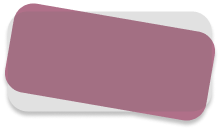
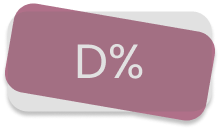
Completion Login

Changed region(s): [[0.3273, 0.3411, 0.6545, 0.6202]]

diff --git a/client/src/pages/Login.js b/client/src/pages/Login.js
@@ -1,5 +1,5 @@
 import React from 'react';
-import { Box } from '@mui/material';
+import { Box, Typography, Button, ThemeProvider, Stack } from '@mui/material';
 
 import LoginBanner from '../components/login/LoginBanner';
 import HorizontalBar from '../components/HorizontalBar';
@@ -7,6 +7,13 @@ import LoginNavbar from '../components/login/LoginNavbar';
 import '../assets/css/Login.css';
 import theme, { Colours } from '../assets/theme/theme';
 import Skeleton from '@mui/material/Skeleton';
+import Reveal from 'react-reveal/Reveal';
+import Zoom from '@mui/material/Zoom'; //Zoom text
+import Flip from 'react-reveal/Flip';
+import Slide from 'react-reveal/Slide';
+import { Paper} from '@mui/material';
+
+
 
 
 
@@ -14,10 +21,79 @@ import Skeleton from '@mui/material/Skeleton';
 function Login() {
   return (
     <Box className='Login-body-Style' >
-    
-    
-        <LoginNavbar/>
-        <LoginBanner />
+       <LoginNavbar/>
+
+
+
+       <Box maxWidth='100%' sx={{
+        padding: '0',
+        display: 'flex',
+        flexDirection: 'row',
+        width: '100%',
+      }}>
+        {/* ------------------Login Part------------------------------- */}
+
+        {/* Box 1 for Login */}
+       <LoginBanner/>
+        {/* Box 1 */}
+
+
+
+
+        {/* Box 2 */}
+        <Box sx={{
+         
+          height: 'auto',
+          width:'100%',
+          justifyContent: 'left',
+
+          [theme.breakpoints.down('sm')]: {
+            fontSize: '8px',
+            padding: '2px',
+            width: '100%',
+          }
+        }}>
+         
+           
+              <Zoom in={true}>
+                  
+                  <Typography color="#95CD41" fontWeight="400" variant="h2" fontSize="500%"
+                    sx= {{
+                      marginTop: '20%',
+                      marginLeft:'14%',
+                     
+                      [theme.breakpoints.down('md')]: {
+                      fontSize: '350%',
+                      
+                    },
+                    [theme.breakpoints.down('sm')]: {
+                      fontSize: '230%'
+                    }
+                  }}
+                  >
+                    <Slide right>
+                    Eat Healthily With
+                    </Slide>
+                    
+                    <Slide left>
+                   
+                    Your  Prefer
+                  
+                    </Slide>
+                   </Typography>
+                  
+            </Zoom>
+            <Typography>
+                   <Skeleton 
+                      sx={{ backgroundColor:Colours.transparenceGrey, marginLeft:'55%'}}
+                      variant="circular" width={140} height={140}/>
+                  </Typography>
+          
+        
+        </Box>
+        {/* Box 2 */}
+
+      </Box>    
         
       
     </Box>

diff --git a/client/src/components/profile/profileCarouselGood.js b/client/src/components/profile/profileCarouselGood.js
@@ -22,20 +22,20 @@ function Goodc() {
     const data1 = [
 
         [  "Pizza",  "Sugar 16g" , dash ],
-        [  "Pizza",  "Sugar 16g" , '../../assets/images/profile_dash.png' ],
-        [  "Pizza",  "Sugar 16g" , '../assets/images/profile_dash.png' ],
-        [  "Pizza",  "Sugar 16g" , '../assets/images/profile_dash.png' ],
-        [  "Pizza",  "Sugar 16g" , '../assets/images/profile_dash.png' ],
+        [  "Pizza",  "Sugar 16g" , dash ],
+        [  "Pizza",  "Sugar 16g" , dash ],
+        [  "Pizza",  "Sugar 16g" , dash ],
+        [  "Pizza",  "Sugar 16g" , dash ],
       
       ];
 
 
       const data2 = [
-        [  "Pizza",  "Sugar 16g" , '../assets/images/profile_dash.png' ],
-        [  "Pizza",  "Sugar 16g" , '../assets/images/profile_dash.png' ],
-        [  "Pizza",  "Sugar 16g" , '../assets/images/profile_dash.png' ],
-        [  "Pizza",  "Sugar 16g" , '../assets/images/profile_dash.png' ],
-        [  "Pizza",  "Sugar 16g" , '../assets/images/profile_dash.png' ],
+        [  "Pizza",  "Sugar 16g" , dash ],
+        [  "Pizza",  "Sugar 16g" , dash ],
+        [  "Pizza",  "Sugar 16g" , dash ],
+        [  "Pizza",  "Sugar 16g" , dash ],
+        [  "Pizza",  "Sugar 16g" , dash ],
       
 
        

diff --git a/client/src/components/profile/AddressForm.js b/client/src/components/profile/AddressForm.js
@@ -107,7 +107,7 @@ export default function AddressForm() {
         Profile Details
       </Typography>
       <Grid container spacing={3} sx={{color:Colours.formWhite}} >
-        <Grid item xs={12} sm={6}>
+        <Grid item xs={12} >
           <TextField
           sx={{ input: 
             { color: Colours.formWhite }, 
@@ -118,9 +118,9 @@ export default function AddressForm() {
         
             }}
             required
-            id="firstName"
-            name="firstName"
-            label="First Name"
+            id="userName"
+            name="userName"
+            label="Username"
             fullWidth
             autoComplete="given-name"
             defaultValue="Riyansa"
@@ -128,7 +128,7 @@ export default function AddressForm() {
            
           />
         </Grid>
-        <Grid item xs={12} sm={6}>
+        {/* <Grid item xs={12} sm={6}>
           <TextField
             sx={{ input: 
             { color: Colours.formWhite }, 
@@ -147,7 +147,7 @@ export default function AddressForm() {
             variant="filled"
           />
           
-        </Grid>
+        </Grid> */}
         <Grid item xs={12}>
          
            <TextField

diff --git a/client/src/components/user_order/order_google_map.js b/client/src/components/user_order/order_google_map.js
@@ -1,6 +1,8 @@
 import React from "react";
 import { useMemo } from "react";
 import { GoogleMap, useLoadScript, Marker } from "@react-google-maps/api";
+import Box from '@mui/material/Box';
+
 
 export default function Home() {
   const { isLoaded } = useLoadScript({
@@ -15,12 +17,16 @@ function Map() {
   const center = useMemo(() => ({ lat:6.92 , lng: 79.86 }), []);
 
   return (
-    <GoogleMap sx={{
-        marginTop:'3%',
-        width:'50',
-        height:'50',
-      }} zoom={10} center={center} mapContainerClassName="map-container">
+    <Box sx={{
+      marginTop: '5%',
+      maxWidth: '100%',
+      height: "450px",
+      overflowX: "hidden",
+      overflowY: "hidden"
+    }}>
+    <GoogleMap zoom={10} center={center} mapContainerClassName="map-container">
       <Marker position={center} />
     </GoogleMap>
+    </Box>
   );
 }

diff --git a/client/src/assets/css/Login.css b/client/src/assets/css/Login.css
@@ -1,10 +1,21 @@
 .Login-body-Style{
-    background-image:linear-gradient(to bottom, rgba(0, 0, 0, 0) 0%, rgba(0, 0, 0, 0) 59%, rgba(0, 0, 0, 0.65) 100%),url('../images/home-background.jpg');
+    background-image:linear-gradient(to bottom, rgba(0, 0, 0, 0) 0%, rgba(0, 0, 0, 0) 59%, rgba(0, 0, 0, 0.65) 100%),url('../images/home-background2.jpg');
     /* background-image: linear-gradient(to bottom, rgba(245, 246, 252, 0.52), rgba(117, 19, 93, 0.73),url("../images/home-background.jpg")); */
     background-repeat: no-repeat;
-    background-size: 100%;
+    /* background-size: 100%; */
     margin: 0;
     background-size: cover;
+    min-height: 100%;
+    min-width: 1024px;
+      
+    
+    width: 100%;
+    height: 100%;
+      
+    
+    position: fixed;
+    top: 0;
+    left: 0;
   
 }
 

diff --git a/client/src/components/restaurant_order/user_oreder_details.js b/client/src/components/restaurant_order/user_oreder_details.js
@@ -67,15 +67,15 @@ export default function restaurantOrder() {
                   
                 },
                 }} >
-                  <Grid item xs={12} sm={4} sx={{ hover: Colours.white}} >
+                  {/* <Grid item xs={12} sm={6} sx={{ hover: Colours.white}} >
                     <PhoneIcon />
-                  </Grid>
+                  </Grid> */}
 
-                  <Grid item xs={12} sm={4}>
+                  <Grid item xs={12} sm={6}>
                   <ChatBubbleIcon sx={{ hover: Colours.white}}/>
                   </Grid>
 
-                  <Grid item xs={12} sm={4}>
+                  <Grid item xs={12} sm={6}>
                   <MailIcon sx={{ hover: Colours.white}}/>
                   </Grid>
 

diff --git a/client/src/components/restaurant_order/orderwithDiscount.js b/client/src/components/restaurant_order/orderwithDiscount.js
@@ -16,15 +16,6 @@ return (
    
     <Grid item xs={12} sm={6} sx={{marginTop:'15%'}}  >
         <img src={Discountpng}/>
-        <div style={{
-                          position: 'absolute', 
-                          color: 'white', 
-                          top: 8, 
-                          fontSize:24,
-                          left: '59%',
-                          marginTop:'36.5%',
-                          transform: 'translateX(-50%)'
-                        }} >2.5%</div>
                       
     </Grid>
 

diff --git a/client/src/pages/RestaurantOrder.js b/client/src/pages/RestaurantOrder.js
@@ -3,7 +3,7 @@ import { useEffect } from 'react';
 import { Box } from '@mui/material';
 import theme, { Colours } from '../assets/theme/theme'; //to use theme provider,need to import this
 import '../assets/css/Profile.css';
-import Pnavbar from '../components/profile/profileNavbar';
+import Pnavbar from '../components/Navbar';
 import Pcarousel from '../components/profile/profileCarouselGood';
 import AddressFormW from '../components/profile/AddressForm';
 import '../assets/css/Profile.css';

diff --git a/client/src/components/profile/profileNavbar.js b/client/src/components/profile/profileNavbar.js
@@ -17,7 +17,7 @@ import theme, { Colours } from '../../assets/theme/theme';
 
 
 const pages = ['Home', 'Image', 'Chart'];
-const settings = ['Profile', 'Account', 'Dashboard', 'Logout'];
+const settings = ['Profile', 'Logout'];
 
 const ResponsiveAppBar = () => {
   const [anchorElNav, setAnchorElNav] = React.useState(null);

diff --git a/client/src/components/profile/profile_summary_card.js b/client/src/components/profile/profile_summary_card.js
@@ -23,7 +23,7 @@ function Summary_Card(props) {
         </Typography>
         <Typography sx={{ mb: 1.5, ml:25 }} color="#fff"  
         >
-           <img src={props.icon} /> 
+           <img style={{width:'100%',height:'100%'}} src={props.icon} /> 
          
         </Typography>
       </Grid>

diff --git a/client/src/assets/css/Profile.css b/client/src/assets/css/Profile.css
@@ -5,6 +5,19 @@
     background-size: 100%;
     margin: 0;
     background-size: cover;
+    min-height: 100%;
+    min-width: 1024px;
+      
+    
+    width: 100%;
+    height: 100%;
+      
+    
+    position: fixed;
+    top: 0;
+    left: 0;
+
+   
   
 }
 

diff --git a/client/src/pages/UserProfile.js b/client/src/pages/UserProfile.js
@@ -12,7 +12,7 @@ const ProfileD = () => {
 
   return (
     <Box className='Profile-body-Style' marginTop="0px">
-      <Pnavbar/>
+      <Pnavbar />
       <Pcarousel/>
       <Box>
         <p>This is your Chance</p>
